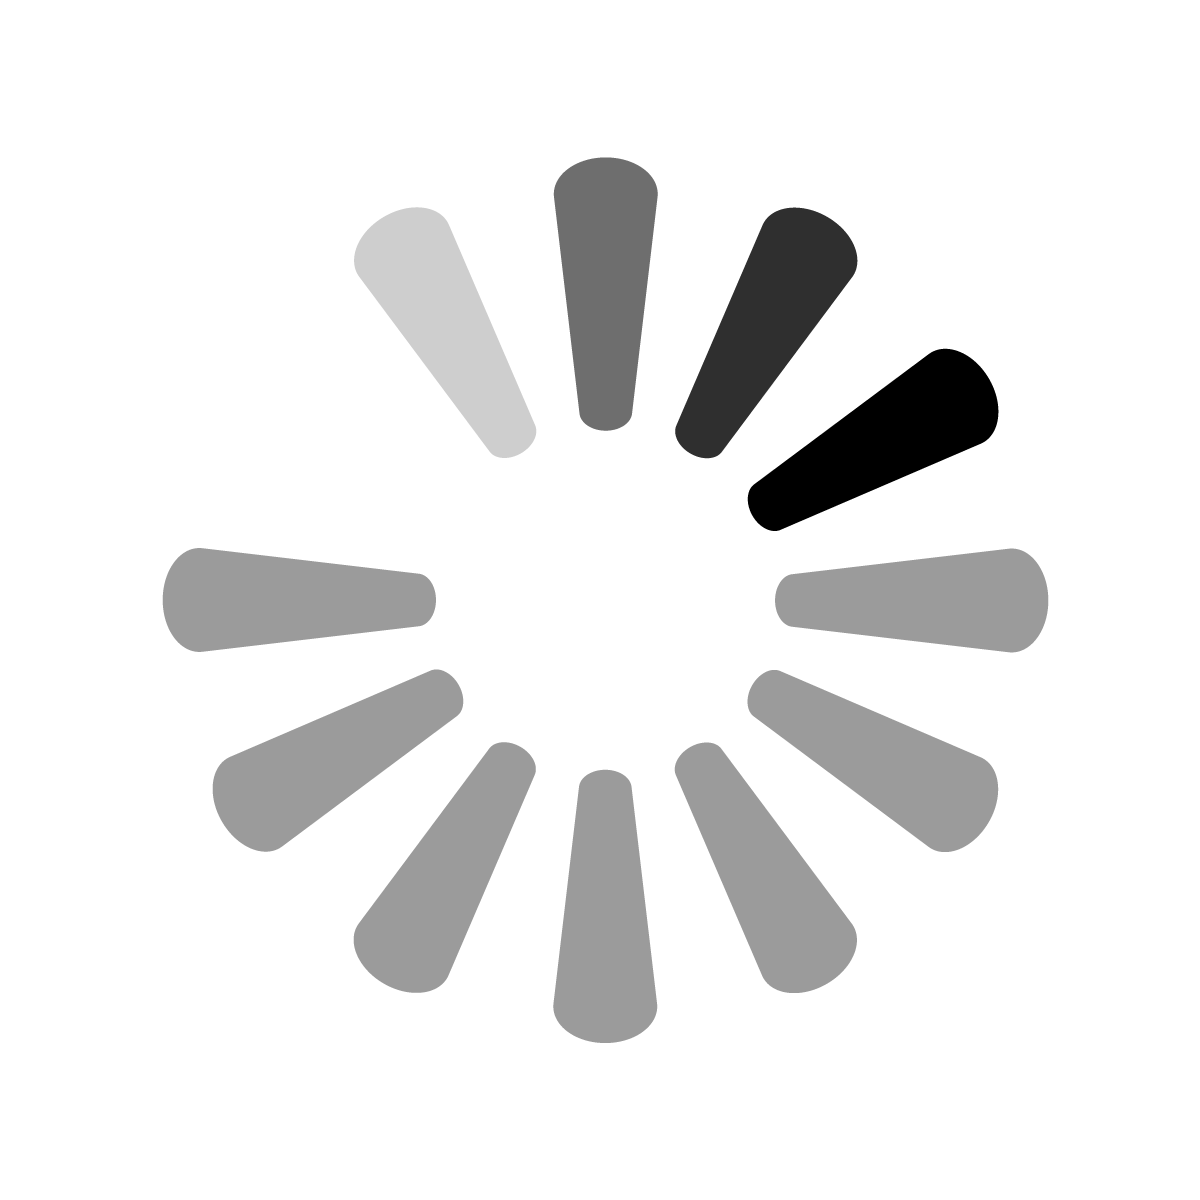
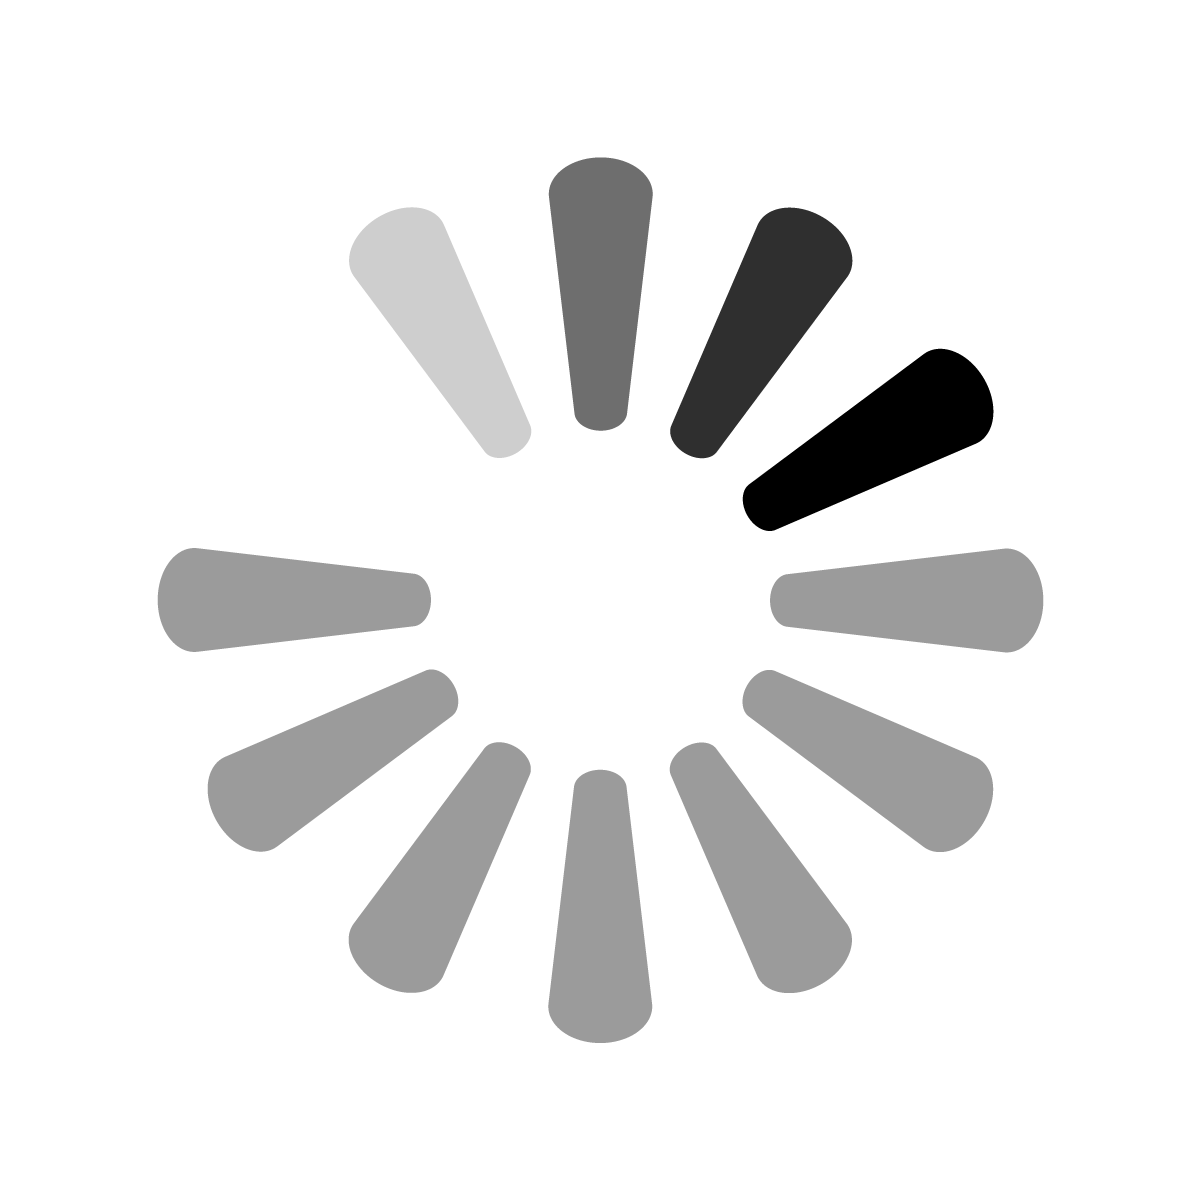
new loading-image placeholder (svg self-made) & paradigm

diff --git a/src/components/Certifications/Certifications.tsx b/src/components/Certifications/Certifications.tsx
@@ -1,6 +1,7 @@
 import { useEffect } from 'react';
 import { useSelector } from 'react-redux';
 import { efSet, fccCertJS, henry, attention, loadingImage } from '../../images/images';
+import asdasd from '../../images/efSet.png';
 import css from './CertificationsCSS.module.css';
 import Bubbles from '../Bubbles/Bubbles';
 import { arrayCertificationsI } from '../../interfaces/interfaces';
@@ -42,9 +43,11 @@ function Certifications() {
 
   const loadedUpdater = (id: any) => {
     let backgroundPH = document.getElementById(`backgroundPH${id}`)
-    if (backgroundPH !== null) backgroundPH.style.display = "none"
     let animationPH = document.getElementById(`animationPH${id}`)
-    if (animationPH !== null) animationPH.style.display = "none"
+    if (backgroundPH !== null && animationPH !== null) {
+      backgroundPH.style.display = "none";
+      animationPH.style.display = "none"
+    }
   }
 
   const certificationsBGHandler: () => void = () => {
@@ -78,16 +81,31 @@ function Certifications() {
                     href={e.href}
                     target="_blank"
                     rel="noreferrer"
-                  >
-                    <img
-                      draggable="false"
-                      className={css.boxMedia}
-                      onLoad={() => loadedUpdater(e.id)}
-                      src={e.media}
-                      alt=""
-                    />
-                  </a>
-                  <img
+                    className={css.aaaasdsdas}
+                    onLoad={(e) => {
+                      //console.log(e.target)
+                      //console.log("LOADED")
+                      //console.dir(e.target)
+                      //(e.target as HTMLImageElement).style.background = "yellow"
+                      // @ts-ignore
+                      (e.target as HTMLElement).style.contentVisibility = 'visible'
+                    }}
+                    children={
+                    
+                        <img
+                          draggable="false"
+                          className={css.boxMedia}
+                          //onLoad={() => loadedUpdater(e.id)}
+                          style={{ backgroundImage: asdasd }}
+                          
+                          src={e.media}
+                          alt=""
+                        />
+                      
+                    }
+                  />
+
+              {/*     <img
                     id={`backgroundPH${e.id}`}
                     className={css.placeholderBackground}
                     alt=""
@@ -97,16 +115,15 @@ function Certifications() {
                     className={css.placeholderAnimation}
                     src={loadingImage}
                     alt=""
-                  />
+                  /> */}
                 </div>
                 <a
                   className={`${css.url} ${css.anchor}`}
                   href={e.href}
                   target="_blank"
                   rel="noreferrer"
-                >
-                  {e.url}
-                </a>
+                  children={e.url}
+                />
               </div>
             )
           })

diff --git a/src/components/Certifications/CertificationsCSS.module.css b/src/components/Certifications/CertificationsCSS.module.css
@@ -118,43 +118,93 @@
 
 .boxMedia {
   display: flex;
+  position: relative;
   width: 220px;
   height: 120px;
   filter: var(--filterCert);
   transition: filter 1s;
-  z-index: 1000,
+  z-index: 1000;
+  /* background-image: url("../../images/food1.png"); */
+  /* background: yellow; */
+  /* background-color: var(--placeholderCert); */
+  content-visibility: hidden;
+  /* background: url("../../images/loadingImage.png"); */
+  /* src: url("../../images/food1.png"); */
+  /* content: url("../../images/loadingImage.png"); */
+  /* src: url("../../images/loadingImage.png"); */
+  /* background-image: url("../../images/javascript.png"); */
+  
+  /* background: url() */
+  /* animation: spinnerrr .8s linear infinite; */
+  /* animation: spinnerrr 1s linear infinite; */
+  /* animation-timing-function: steps(12, end); */
+  /* z-index: -1; */
+  /* background-color: var(--placeholderCert); */
+  
 }
+
+.aaaasdsdas::after {
+  position: absolute;
+  content: "";
+  inset: 0;
+  width: 120px;
+  /* z-index: 1001; */
+  /* left: 50px; */
+  left: calc((100% - 120px) / 2);
+  /* z-index: 9999999; */
+  /* left: calc(100% / 2); */
+  /* left: 10px;
+  top: 10px; */
+  /* z-index: 9999999;
+  background: red; */
+  /* background: gray; */ /* DEV */
+  /* background: red; */
+  /* background-color: var(--placeholderCert); */
+  /* background-image: url("../../images/darth-vader.svg"); */
+  background-size: cover;
+  /* background-image: url("../../images/loadingImage.png"); */
+  background-image: url("../../images/loading.svg");
+  animation: spinnerrr .8s linear infinite;
+  /* animation: spinnerrr 4s linear infinite; */
+  animation-timing-function: steps(12, end);
+}
+
+.aaaasdsdas::before {
+  position: absolute;
+  content: "";
+  inset: 0;
+  /* width: 120px; */
+  /* z-index: 1001; */
+  /* left: 50px; */
+  /* left: calc((100% - 120px) / 2); */
+  /* background-color: darkred; */
+  background-color: var(--placeholderCert);
+  
+}
+
+@keyframes spinnerrr {
+  0% { transform: rotate(0deg) }
+  100% { transform: rotate(360deg) }
+
+  /* 0% { background-position: 0% 0% }
+  100% { background-position: 50% 0% } */
+}
+
+
+
+
+
+
 
 .boxMedia:hover {
   filter: var(--hoverCert);
   transition: filter 0s;
 }
 
-.placeholderBackground {
-  display: flex;
-  position: relative;
-  background: var(--placeholderCert);
-  margin-left: -220px;
-  width: 220px;
-  height: 120px;
-  z-index: 1000,
-}
+/* BEGIN PLACEHOLDER SECTION */
 
-.placeholderAnimation {
-  display: flex;
-  position: relative;
-  margin-left: -170px;
-  width: 120px;
-  height: 120px;
-  z-index: 1001;
-  animation: spinner .8s linear infinite;
-  animation-timing-function: steps(12, end);
-}
 
-@keyframes spinner {
-  0% { transform: rotate(0deg) }
-  100% { transform: rotate(360deg) }
-}
+/* END PLACEHOLDER SECTION */
 
 @media screen
 and (width <= 460px) {
